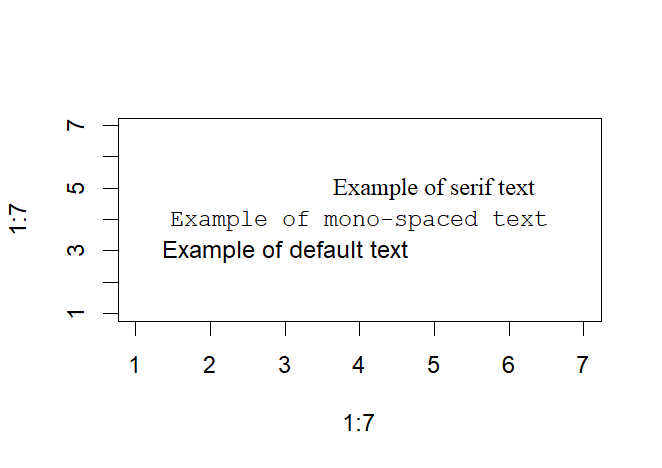
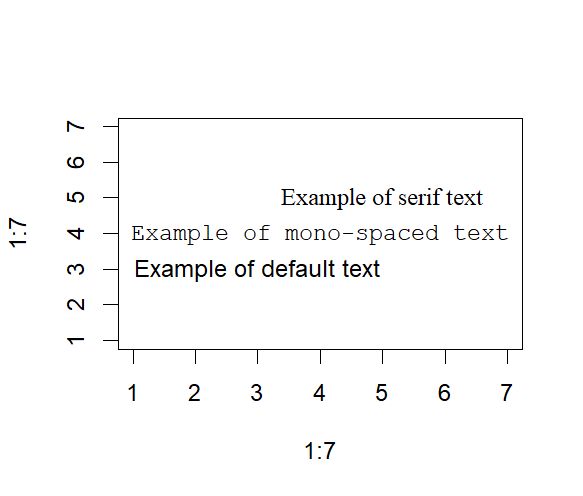
Demo for chapter 3of R in Action

diff --git a/demo_16_Getting_StaRted_with_R/README.md b/demo_16_Getting_StaRted_with_R/README.md
@@ -831,7 +831,7 @@ text(4, 4, family = "mono", "Example of mono-spaced text")
 text(5, 5, family = "serif", "Example of serif text")
 par(opar)
 ```
-<img src="Images/font_plot.png" width="800"/>
+<img src="Images/font_plot.png" width="500"/>
 
 ## --Section 3.5--
 
